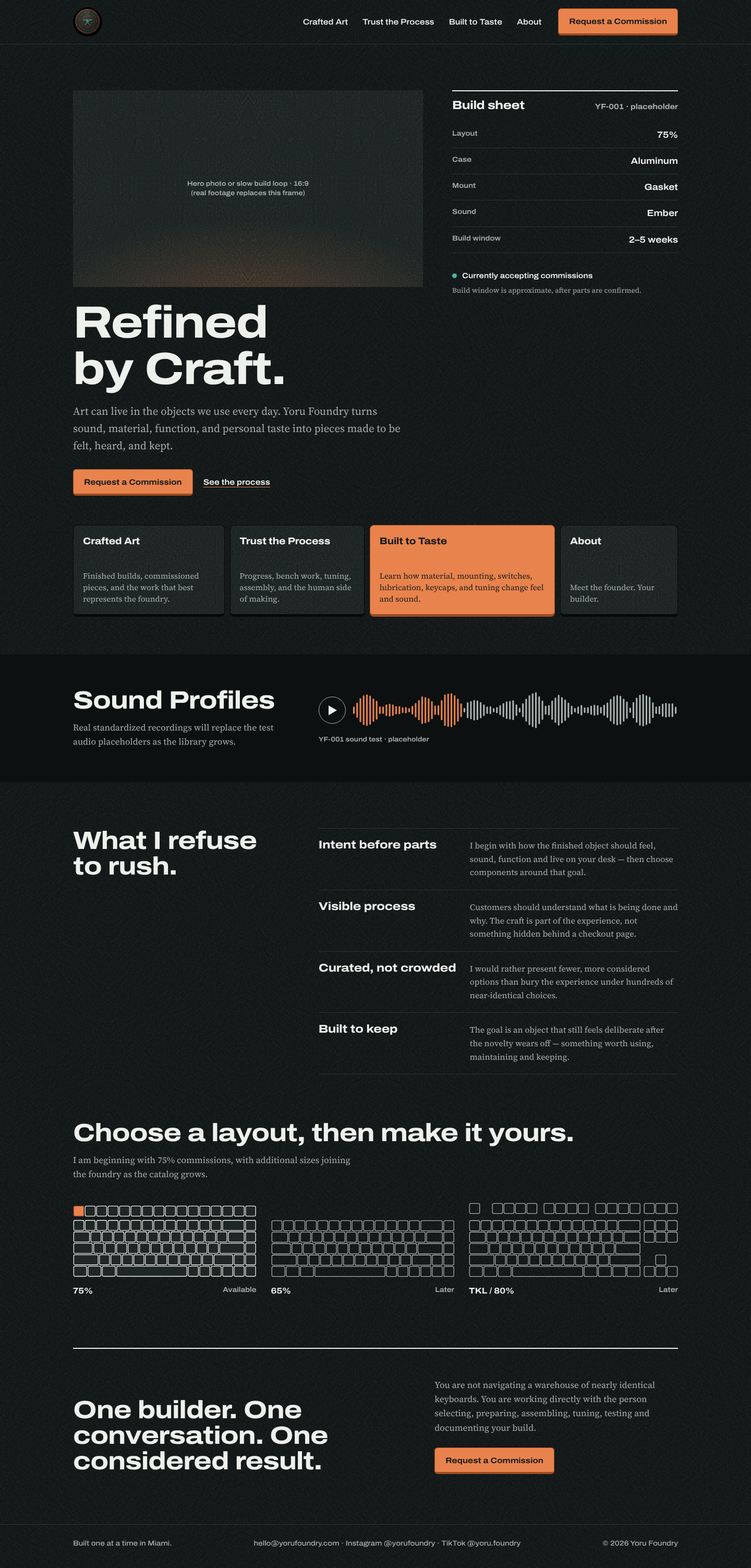
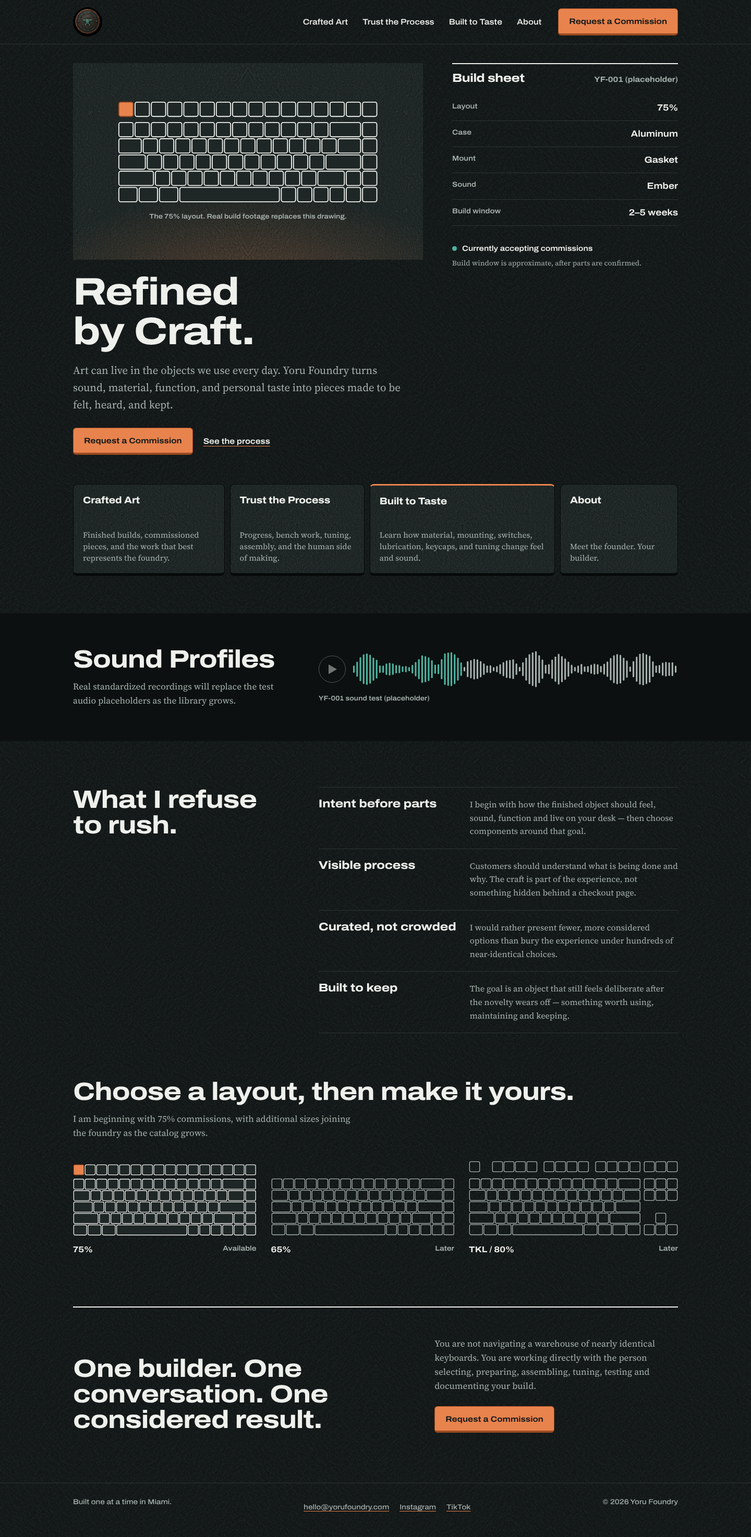
Mockup: apply critique fixes (copper, hero drawing, basics)
- Copper fill only on the commission button; Built to Taste gets a copper
  top edge on the sand face; waveform progress uses verdigris.
- Hero frame shows the 75% drawing until footage exists; hero tightened so
  the commission button is above the fold at 1440x900 (ends at 872px).
- Phone menu (native details), logo links home, single <main>, real footer
  links, button hover travel, 44px+ tap targets, dimmed disabled play,
  dot-joined strings removed.

Claude-Session: https://claude.ai/code/session_014kgsP4zXbR91SpjPr6JWR2

diff --git a/mockups/home.html b/mockups/home.html
@@ -96,7 +96,6 @@ if (tex === 'none') delete document.documentElement.dataset.tex; else if (tex) d
 [data-tex] .key, [data-tex] .frame { position: relative; isolation: isolate; }
 [data-tex] .key::before, [data-tex] .frame::before { content: ""; position: absolute; inset: 0; z-index: -1; border-radius: inherit; pointer-events: none;
   background: var(--tex-key, none) center / var(--tex-key-size, 384px) repeat; opacity: var(--tex-key-op, 0); mix-blend-mode: soft-light; }
-[data-tex] .key.accent::before { display: none; } /* copper stays satin: no grain */
 * { box-sizing: border-box; }
 html { background: var(--canvas); }
 body {
@@ -112,7 +111,7 @@ a { color: inherit; text-decoration-color: var(--accent-2, var(--accent)); text-
   font-family: Archivo, system-ui, sans-serif; font-stretch: 112%;
 }
 h1, h2, h3 { font-family: Archivo, system-ui, sans-serif; font-stretch: 118%; font-weight: 750; letter-spacing: -.02em; line-height: 1.02; margin: 0; text-wrap: balance; }
-h1 { font-size: clamp(2.6rem, 6.4vw, 5.4rem); }
+h1 { font-size: clamp(2.6rem, 6vw, 4.6rem); }
 h2 { font-size: clamp(1.9rem, 3.6vw, 3rem); }
 h3 { font-size: 1.35rem; letter-spacing: -.01em; }
 p { margin: 0; max-width: 62ch; }
@@ -135,21 +134,24 @@ header .wrap { display: flex; align-items: center; gap: 32px; height: 84px; }
 }
 [data-theme="bench"] .btn:not(.primary) { color: #232527; }
 .btn.primary { background: var(--accent); color: var(--accent-ink); border-color: var(--accent-edge); }
+.btn:hover { transform: translateY(2px); border-bottom-width: 2px; }
 .btn:active { transform: translateY(3px); border-bottom-width: 1px; }
 
 /* Hero */
-.hero { display: grid; grid-template-columns: 1.55fr 1fr; gap: 24px clamp(24px, 4vw, 56px); padding: clamp(40px, 7vw, 88px) 0 56px; align-items: end; }
+.hero { display: grid; grid-template-columns: 1.55fr 1fr; gap: 24px clamp(24px, 4vw, 56px); padding: clamp(24px, 3vw, 36px) 0 56px; align-items: end; }
 .frame {
   grid-column: 1; aspect-ratio: 16 / 9; color: var(--frame-ink);
   background-color: var(--frame);
   background-image: radial-gradient(90% 70% at 50% 115%, color-mix(in srgb, var(--accent) var(--glow-mix, 0%), transparent), transparent 70%);
   display: grid; place-items: center; font: 600 .8rem/1.4 Archivo, sans-serif; font-stretch: 112%;
-  text-align: center; padding: 16px;
+  text-align: center; padding: 16px; align-content: center; gap: 18px;
 }
+.frame .board.hero-board { width: 78%; }
+.frame-note { max-width: none; }
 .hero-copy { grid-column: 1; display: grid; gap: 20px; }
 .hero-copy .lede { font-size: clamp(1.1rem, 1.6vw, 1.3rem); color: var(--muted); }
 .actions { display: flex; flex-wrap: wrap; gap: 20px; align-items: center; margin-top: 8px; }
-.actions a:not(.btn) { font-family: Archivo, sans-serif; font-stretch: 112%; font-weight: 600; font-size: .95rem; }
+.actions a:not(.btn) { display: inline-block; padding: 12px 0; font-family: Archivo, sans-serif; font-stretch: 112%; font-weight: 600; font-size: .95rem; }
 .sheet-card { grid-column: 2; grid-row: 1 / span 2; align-self: start; display: flex; flex-direction: column; gap: 8px; border-top: 2px solid var(--ink); padding-top: 16px; }
 .sheet-head { display: flex; justify-content: space-between; align-items: baseline; }
 .sheet-head .sheet-title { font-size: 1.4rem; }
@@ -176,8 +178,7 @@ header .wrap { display: flex; align-items: center; gap: 32px; height: 84px; }
 .key:active { transform: translateY(4px); border-bottom-width: 1px; }
 .key-legend { font-weight: 750; font-size: 1.15rem; letter-spacing: -.01em; }
 .key p { font-size: .95rem; line-height: 1.45; color: var(--muted); }
-.key.accent { background: var(--accent); border-color: var(--accent-edge); color: var(--accent-ink); }
-.key.accent p { color: var(--accent-ink); }
+.key.accent { border-top: 3px solid var(--accent); }
 
 /* Sound band */
 .band { background: var(--band); color: var(--band-ink); padding: 64px 0; }
@@ -185,10 +186,11 @@ header .wrap { display: flex; align-items: center; gap: 32px; height: 84px; }
 .band p { color: var(--band-muted); margin-top: 14px; }
 .wave { display: flex; align-items: center; gap: 14px; }
 .play { flex: none; width: 52px; height: 52px; border-radius: 50%; border: 1px solid var(--band-muted); background: transparent; display: grid; place-items: center; cursor: not-allowed; }
+.play:disabled { opacity: .45; }
 .play svg { width: 16px; fill: var(--band-ink); margin-left: 3px; }
 .wave > svg { width: 100%; height: 72px; }
 .wave rect { fill: var(--band-muted); }
-.wave rect.lit { fill: var(--accent-2, var(--accent)); }
+.wave rect.lit { fill: var(--signal); }
 .band .label { font-size: .8rem; font-weight: 600; color: var(--band-muted); margin-top: 10px; }
 
 /* Standards: ruled list */
@@ -213,10 +215,20 @@ header .wrap { display: flex; align-items: center; gap: 32px; height: 84px; }
 .close p { color: var(--muted); margin-bottom: 24px; }
 footer { border-top: 1px solid var(--rule); padding: 28px 0 40px; font: 500 .85rem Archivo, sans-serif; font-stretch: 112%; color: var(--muted); }
 footer .wrap { display: flex; justify-content: space-between; gap: 16px; flex-wrap: wrap; }
+.foot-links { display: flex; gap: 20px; flex-wrap: wrap; }
+.foot-links a { padding: 10px 0; }
+.menu { display: none; position: relative; font: 600 .95rem Archivo, sans-serif; font-stretch: 112%; }
+.menu summary { list-style: none; cursor: pointer; padding: 14px 4px; }
+.menu summary::-webkit-details-marker { display: none; }
+.menu nav { position: absolute; right: 0; top: 100%; z-index: 2; display: grid; min-width: 200px; padding: 8px 0; background: var(--key); border: 1px solid var(--rule); border-radius: 8px; }
+.menu nav a { padding: 12px 16px; text-decoration: none; }
 
 @media (max-width: 860px) {
   .nav { display: none; }
-  header .btn { margin-left: auto; padding: 10px 14px 8px; font-size: .85rem; }
+  .menu { display: block; }
+  header .wrap { gap: 12px; }
+  header .btn { margin-left: auto; padding: 10px 12px 8px; font-size: .85rem; white-space: nowrap; }
+  .logo { width: 48px; height: 48px; }
   .hero, .band .wrap, .standards, .close { grid-template-columns: 1fr; }
   .sheet-card { grid-column: 1; grid-row: auto; }
   .keys { grid-template-columns: 1fr 1fr; }
@@ -231,15 +243,17 @@ footer .wrap { display: flex; justify-content: space-between; gap: 16px; flex-wr
 </head>
 <body>
 <header><div class="wrap">
-  <img class="logo" src="../src/static/assets/yoru-foundry-logo-v5.webp" alt="Yoru Foundry">
+  <a href="#" aria-label="Yoru Foundry home"><img class="logo" src="../src/static/assets/yoru-foundry-logo-v5.webp" alt=""></a>
   <nav class="nav" aria-label="Main"><a href="#">Crafted Art</a><a href="#">Trust the Process</a><a href="#">Built to Taste</a><a href="#">About</a></nav>
   <a class="btn primary" href="#">Request a Commission</a>
+  <details class="menu"><summary>Menu</summary><nav aria-label="Main"><a href="#">Crafted Art</a><a href="#">Trust the Process</a><a href="#">Built to Taste</a><a href="#">About</a></nav></details>
 </div></header>
 <div class="temper-strip" aria-hidden="true"></div>
 
-<main class="wrap">
+<main>
+<div class="wrap">
   <section class="hero">
-    <div class="frame">Hero photo or slow build loop · 16:9<br>(real footage replaces this frame)</div>
+    <div class="frame"><div class="board live hero-board" data-layout="75"><svg></svg></div><p class="frame-note">The 75% layout. Real build footage replaces this drawing.</p></div>
     <div class="hero-copy">
       <h1>Refined by Craft.</h1>
       <p class="lede">Art can live in the objects we use every day. Yoru Foundry turns sound, material, function, and personal taste into pieces made to be felt, heard, and kept.</p>
@@ -247,7 +261,7 @@ footer .wrap { display: flex; justify-content: space-between; gap: 16px; flex-wr
     </div>
     <aside class="sheet-card" aria-label="Build sheet">
       <div>
-        <div class="sheet-head"><h2 class="sheet-title">Build sheet</h2><span class="serial">YF-001 · placeholder</span></div>
+        <div class="sheet-head"><h2 class="sheet-title">Build sheet</h2><span class="serial">YF-001 (placeholder)</span></div>
         <dl class="sheet">
           <div><dt>Layout</dt><dd>75%</dd></div>
           <div><dt>Case</dt><dd>Aluminum</dd></div>
@@ -269,7 +283,7 @@ footer .wrap { display: flex; justify-content: space-between; gap: 16px; flex-wr
     <a class="key accent" href="#"><span class="key-legend">Built to Taste</span><p>Learn how material, mounting, switches, lubrication, keycaps, and tuning change feel and sound.</p></a>
     <a class="key" href="#"><span class="key-legend">About</span><p>Meet the founder. Your builder.</p></a>
   </nav>
-</main>
+</div>
 
 <section class="band" aria-label="Sound">
   <div class="wrap">
@@ -282,12 +296,12 @@ footer .wrap { display: flex; justify-content: space-between; gap: 16px; flex-wr
         <button class="play" disabled aria-label="Play sound test (recording not available yet)"><svg viewBox="0 0 12 14"><path d="M0 0l12 7-12 7z"/></svg></button>
         <svg id="wave" viewBox="0 0 600 72" preserveAspectRatio="none" aria-hidden="true"></svg>
       </div>
-      <p class="label">YF-001 sound test · placeholder</p>
+      <p class="label">YF-001 sound test (placeholder)</p>
     </div>
   </div>
 </section>
 
-<main class="wrap">
+<div class="wrap">
   <section class="standards">
     <h2>What I refuse to rush.</h2>
     <ul>
@@ -315,8 +329,9 @@ footer .wrap { display: flex; justify-content: space-between; gap: 16px; flex-wr
       <a class="btn primary" href="#">Request a Commission</a>
     </div>
   </section>
+</div>
 </main>
-<footer><div class="wrap"><span>Built one at a time in Miami.</span><span>hello@yorufoundry.com · Instagram @yorufoundry · TikTok @yoru.foundry</span><span>© 2026 Yoru Foundry</span></div></footer>
+<footer><div class="wrap"><span>Built one at a time in Miami.</span><span class="foot-links"><a href="mailto:hello@yorufoundry.com">hello@yorufoundry.com</a><a href="https://instagram.com/yorufoundry">Instagram</a><a href="https://www.tiktok.com/@yoru.foundry">TikTok</a></span><span>© 2026 Yoru Foundry</span></div></footer>
 
 <script>
 // Key rows in units; negative = gap. Same scale for every board, so sizes compare honestly.
